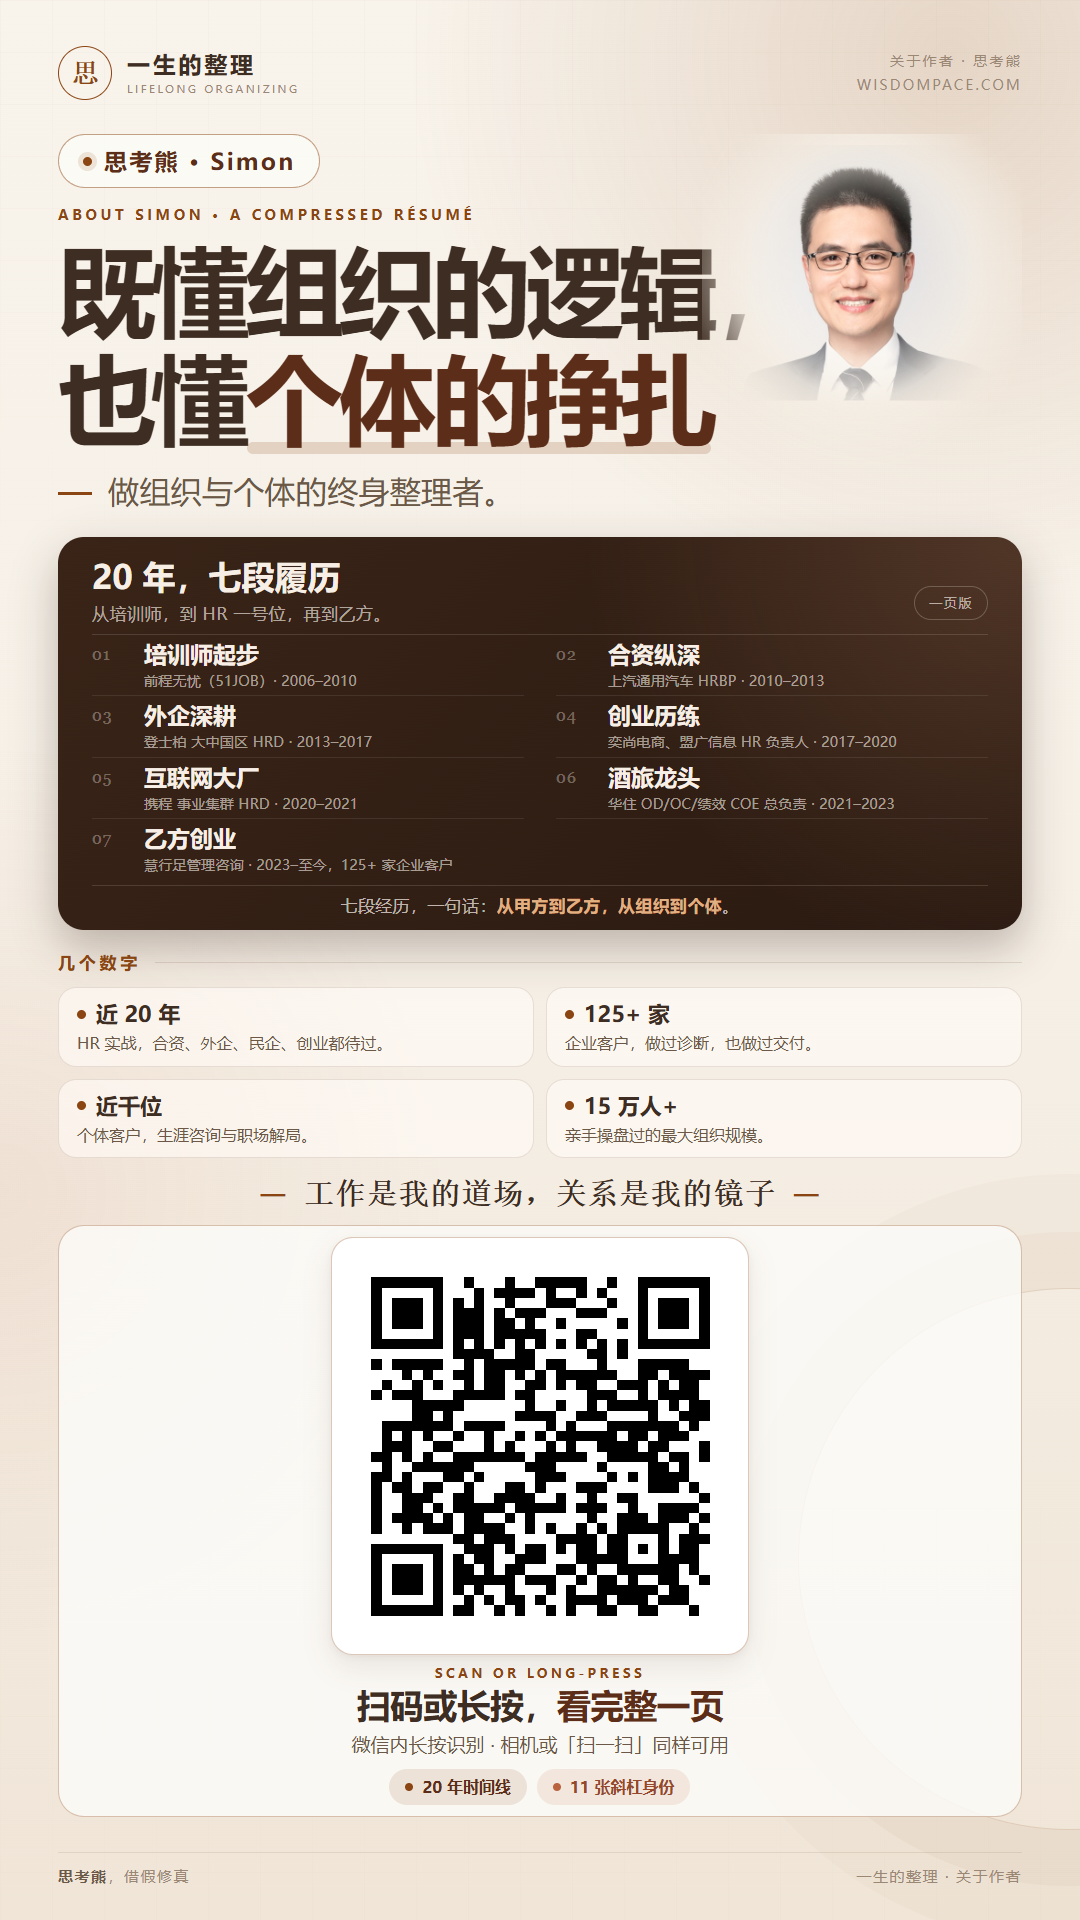
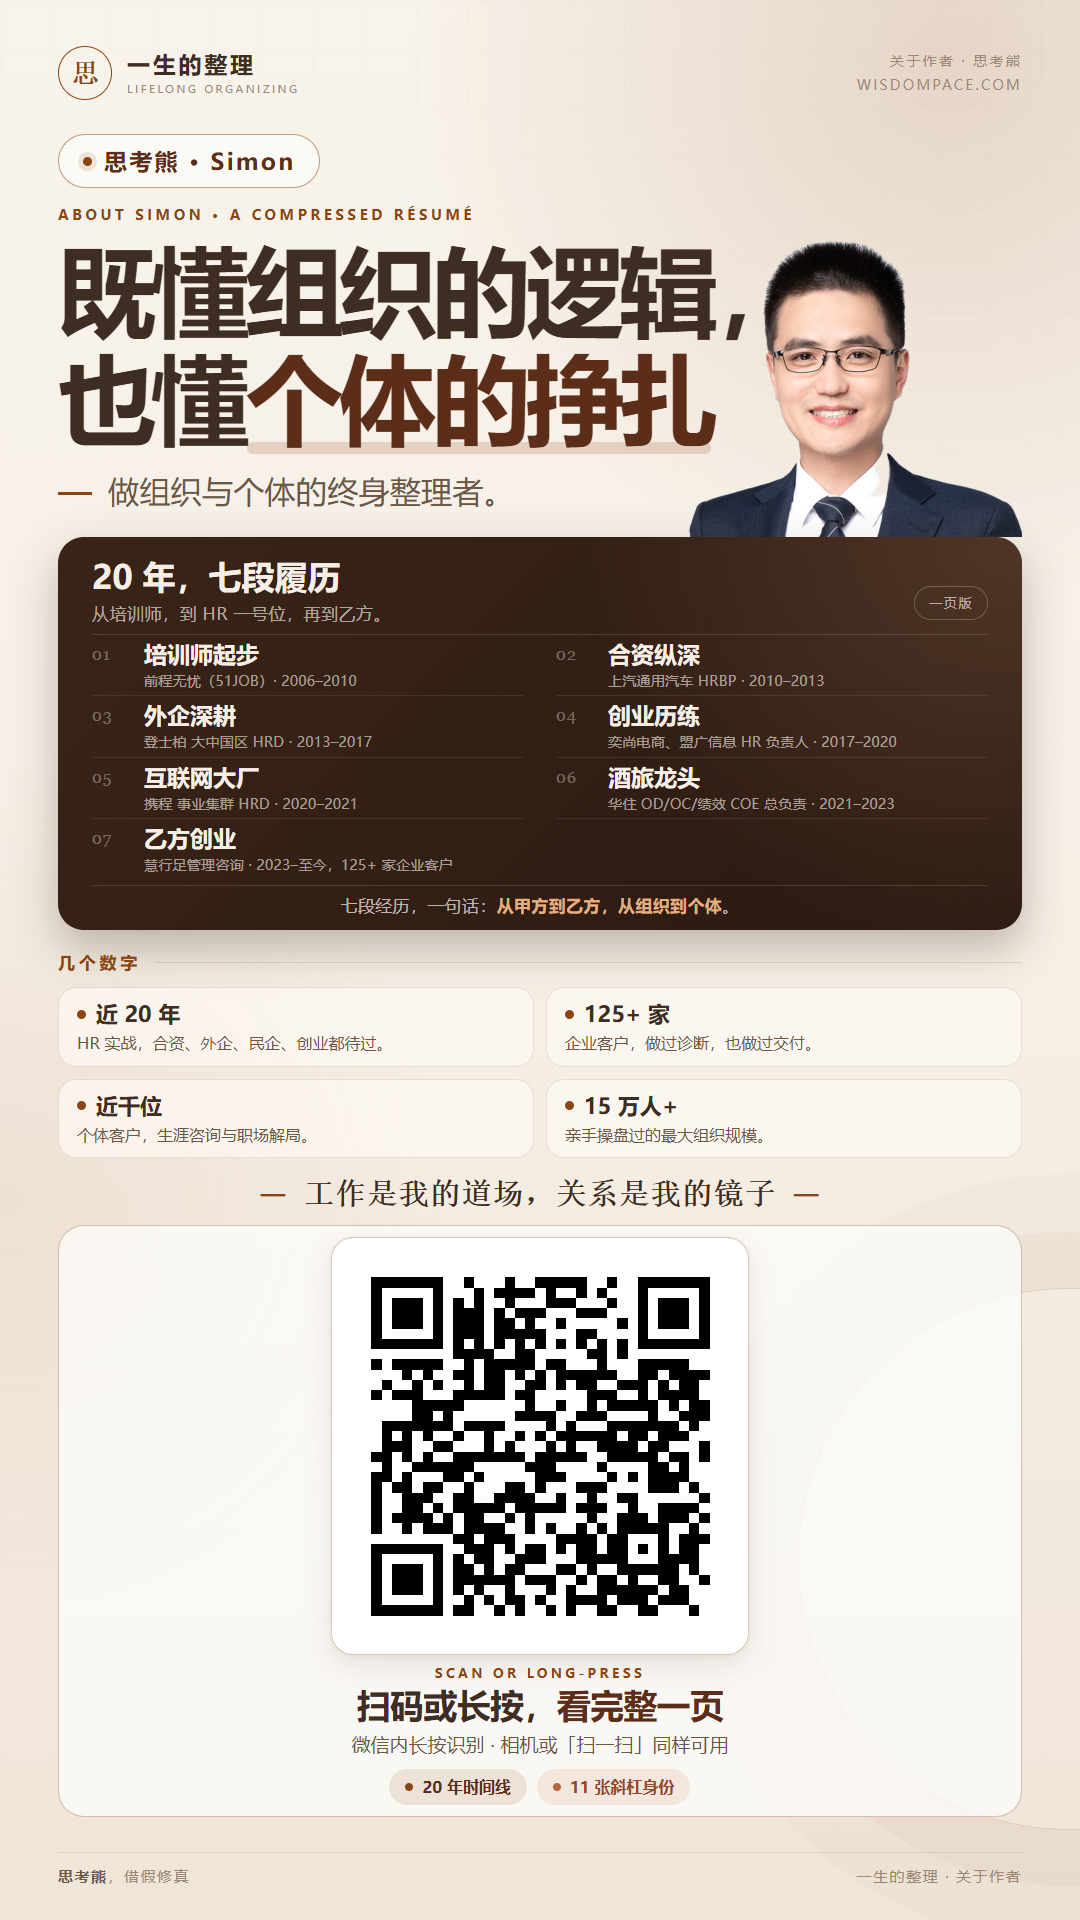
posters: 人像改真抠图，右缘贴边距、下缘压卡片顶边，去掉羽化模糊

Changed region(s): [[0.6417, 0.0625, 0.9472, 0.2812]]

diff --git a/posters/about-simon-poster.html b/posters/about-simon-poster.html
@@ -219,13 +219,13 @@
       font-size: 13px;
       letter-spacing: 0.12em;
     }
-    /* 主视觉右侧人像：柔边融入纸底，无边框无阴影，含肩不切头 */
+    /* 主视觉右侧人像：右缘贴页边距、下缘贴卡片顶边，比例 720:648 */
     .hero-avatar {
       position: absolute;
-      top: 34px;
+      top: 113px;
       right: 0;
-      width: 320px;
-      height: 348px;
+      width: 360px;
+      height: 324px;
     }
     .hero-avatar img {
       display: block;
@@ -484,7 +484,7 @@
       <h1>既懂组织的逻辑，<br />也懂<span class="accent">个体的挣扎</span></h1>
       <p class="slogan">做组织与个体的终身整理者。</p>
       <div class="hero-avatar">
-        <img src="avatar-simon-soft.png" alt="思考熊 Simon" />
+        <img src="avatar-simon-cut.png" alt="思考熊 Simon" />
       </div>
     </section>
 
